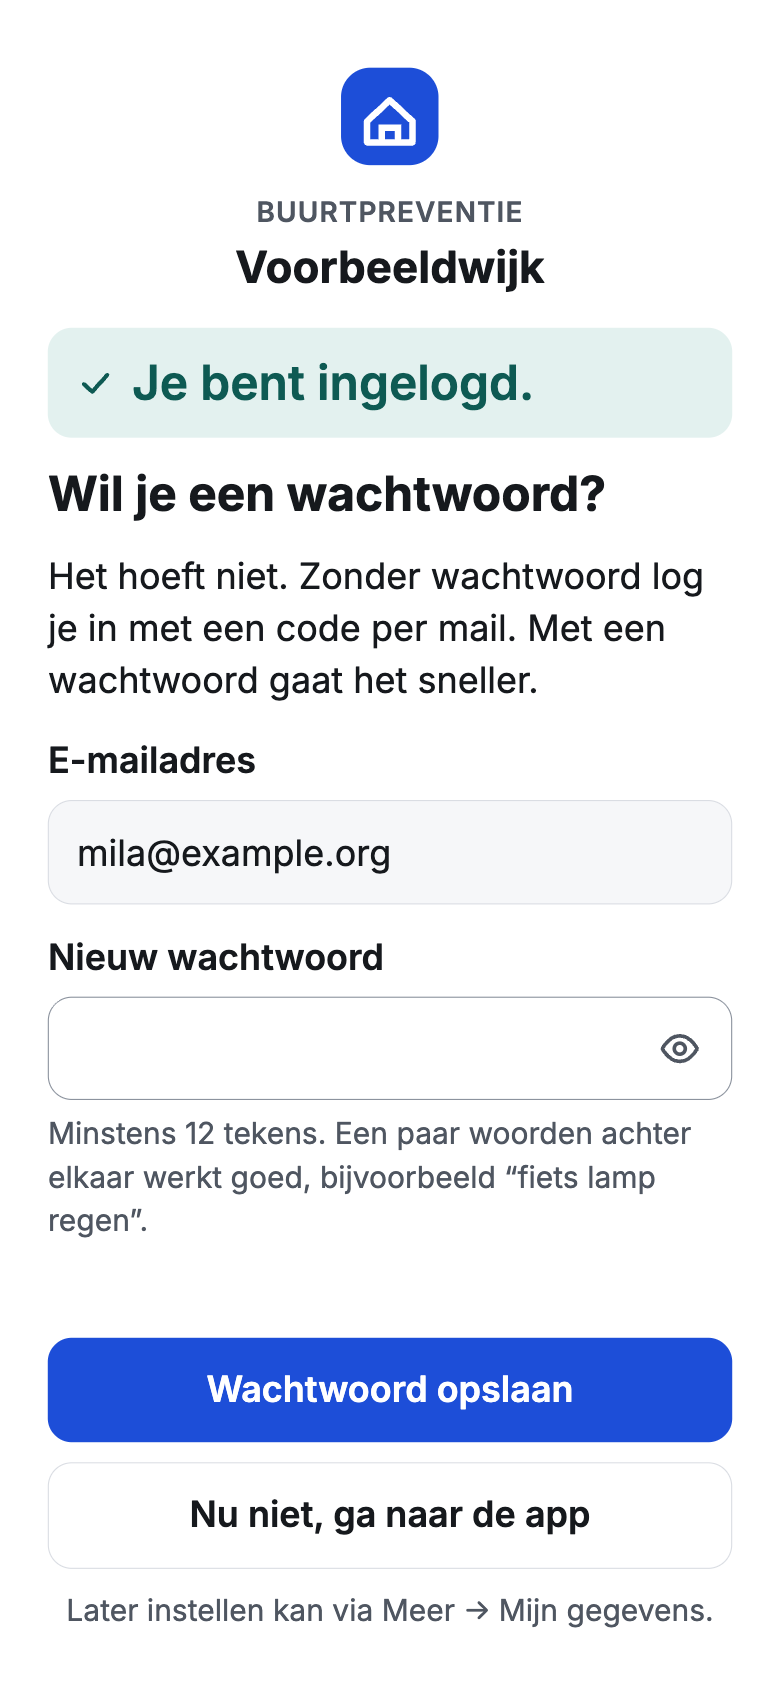
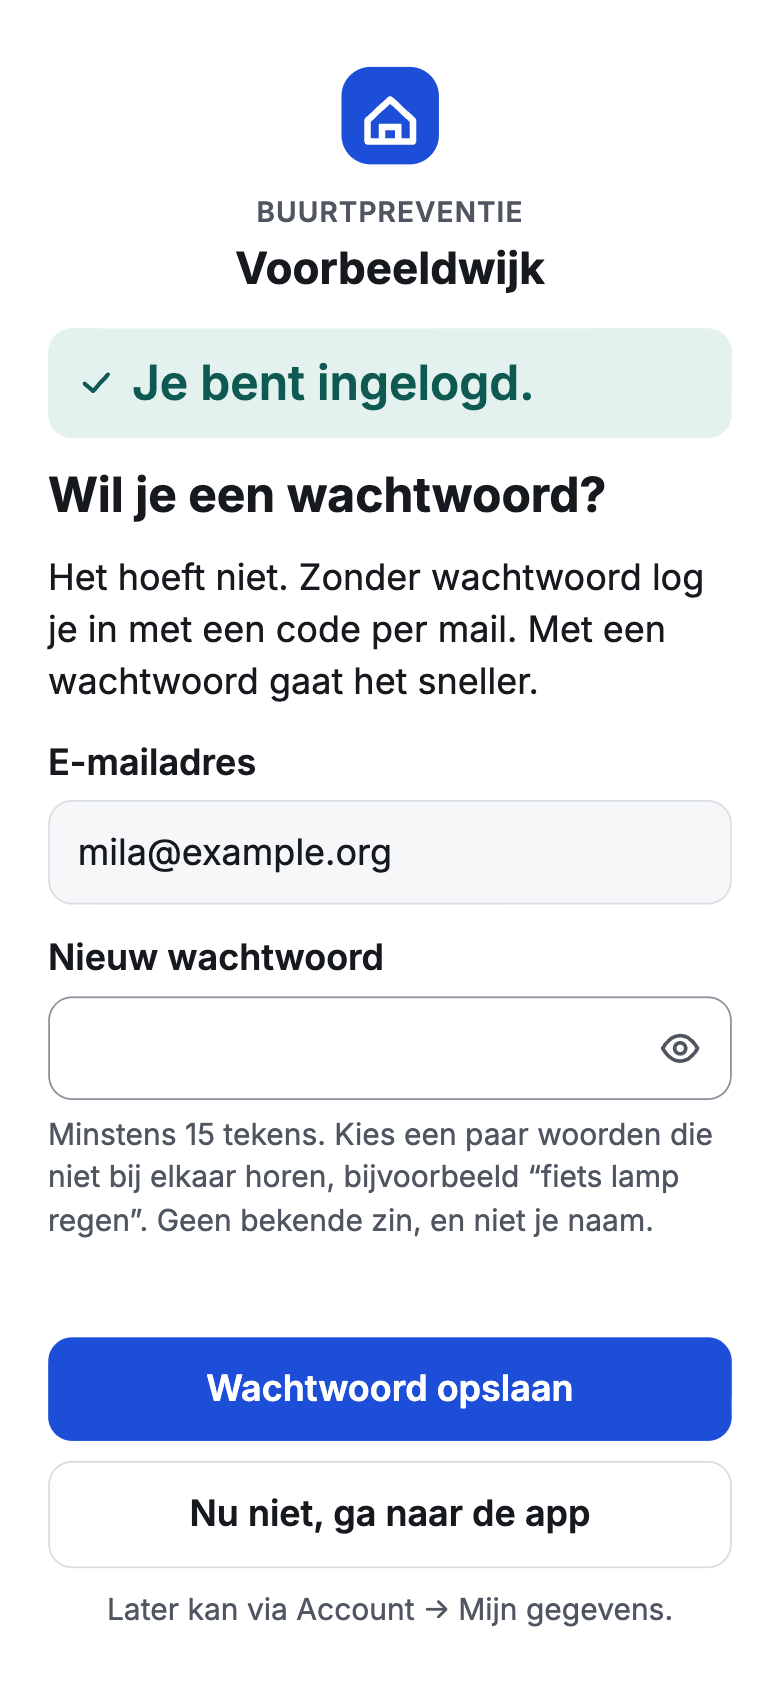
Add the approved set-password screen and its error state

diff --git a/docs/design/walker/mobile/README.md b/docs/design/walker/mobile/README.md
@@ -41,7 +41,8 @@ without the status after the "·".
 | `login-code.png` | Code invullen | approved 2026-11-19 | 844 |
 | `login-code-error.png` | Code invullen — fout | approved 2026-11-19 | 844 |
 | `welcome.png` | Welkom (uitnodiging) | approved 2026-11-19 | 844 |
-| `set-password.png` | Wachtwoord instellen (mag) | approved 2026-11-19 | 844 |
+| `set-password.png` | Wachtwoord instellen (mag) | approved 2026-11-28 | 844 |
+| `set-password-error.png` | Wachtwoord instellen — fout | approved 2026-11-28 | 900 (scrolls) |
 | `browser-unsupported.png` | Browser te oud | approved 2026-11-19 | 844 |
 
 ### Rounds
